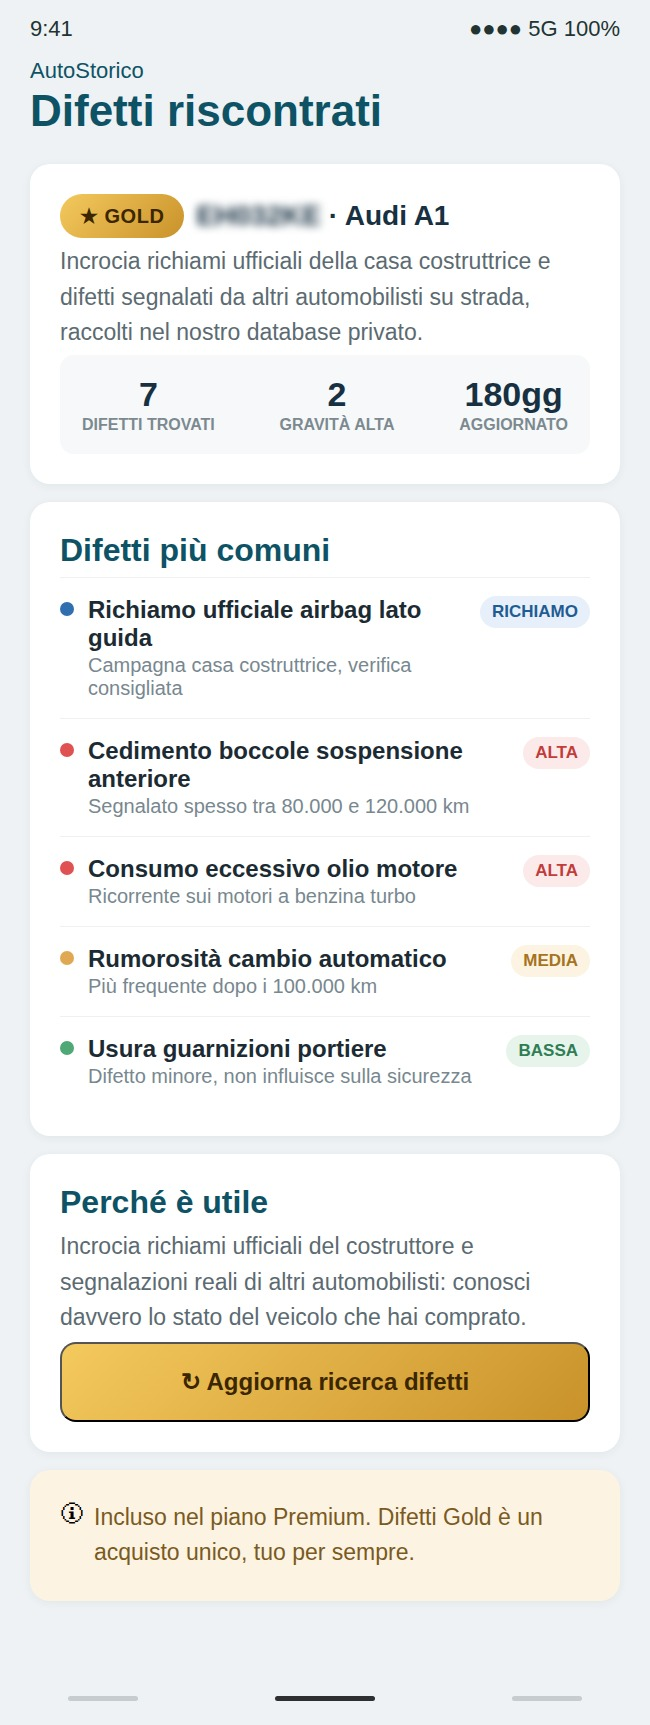
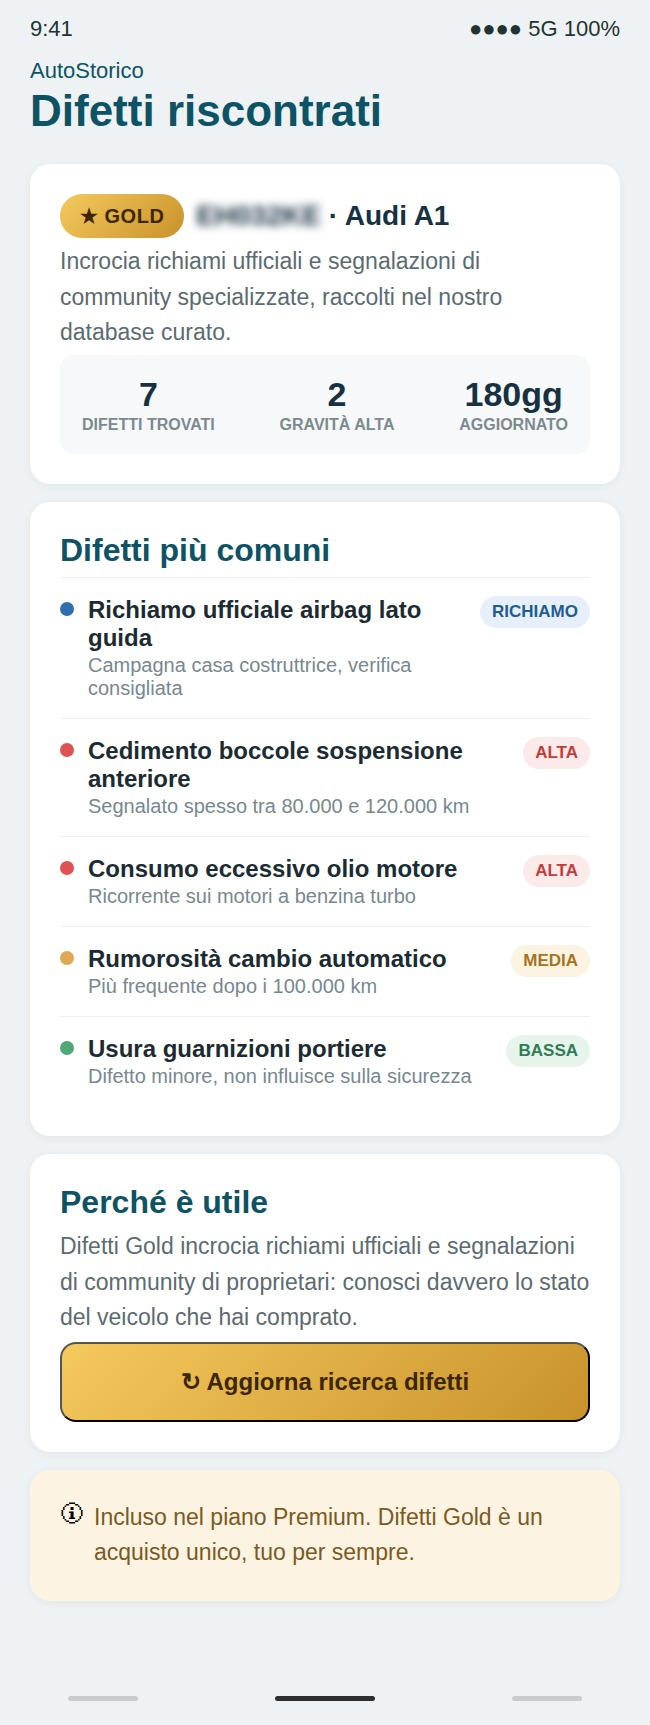
Corretta descrizione fonti Difetti Gold (richiami ufficiali + community, non utenti AutoStorico)

Changed region(s): [[0.0923, 0.7067, 0.8923, 0.7681], [0.0923, 0.1229, 0.8, 0.2151]]

diff --git a/autostorico.html b/autostorico.html
@@ -113,7 +113,7 @@ document.addEventListener('click',function(e){var a=e.target.closest('a');if(!a)
 
         <article class="app-guide-card market-card gold-card">
           <figure><img src="assets/app_difetti_gold.jpg" alt="Schermata Difetti riscontrati Gold con richiami ufficiali e segnalazioni automobilisti in AutoStorico" loading="lazy"></figure>
-          <div class="app-guide-copy gold-copy"><span class="card-number">05</span><p class="card-kicker">DIFETTI GOLD</p><h3>Conosci davvero il mezzo che hai comprato</h3><p>Difetti Gold incrocia i richiami ufficiali della casa costruttrice con i difetti segnalati realmente da altri automobilisti su strada, raccolti nel nostro database privato: un quadro completo che va oltre il singolo controllo visivo.</p><ul><li>Richiami ufficiali del costruttore</li><li>Segnalazioni reali di altri automobilisti</li><li>Database privato e aggiornato</li><li>Acquisto unico, richiede Premium attivo</li></ul></div>
+          <div class="app-guide-copy gold-copy"><span class="card-number">05</span><p class="card-kicker">DIFETTI GOLD</p><h3>Conosci davvero il mezzo che hai comprato</h3><p>Difetti Gold incrocia i richiami ufficiali (Ministero dei Trasporti, Commissione Europea, NHTSA e case costruttrici) con le segnalazioni di altri proprietari raccolte da forum e community specializzate di settore, in un unico database curato da AutoStorico: un quadro completo che va oltre il singolo controllo visivo.</p><ul><li>Richiami ufficiali di enti e case costruttrici</li><li>Segnalazioni da forum e community di proprietari</li><li>Database curato e aggiornato</li><li>Acquisto unico, richiede Premium attivo</li></ul></div>
         </article>
       </div>
 
